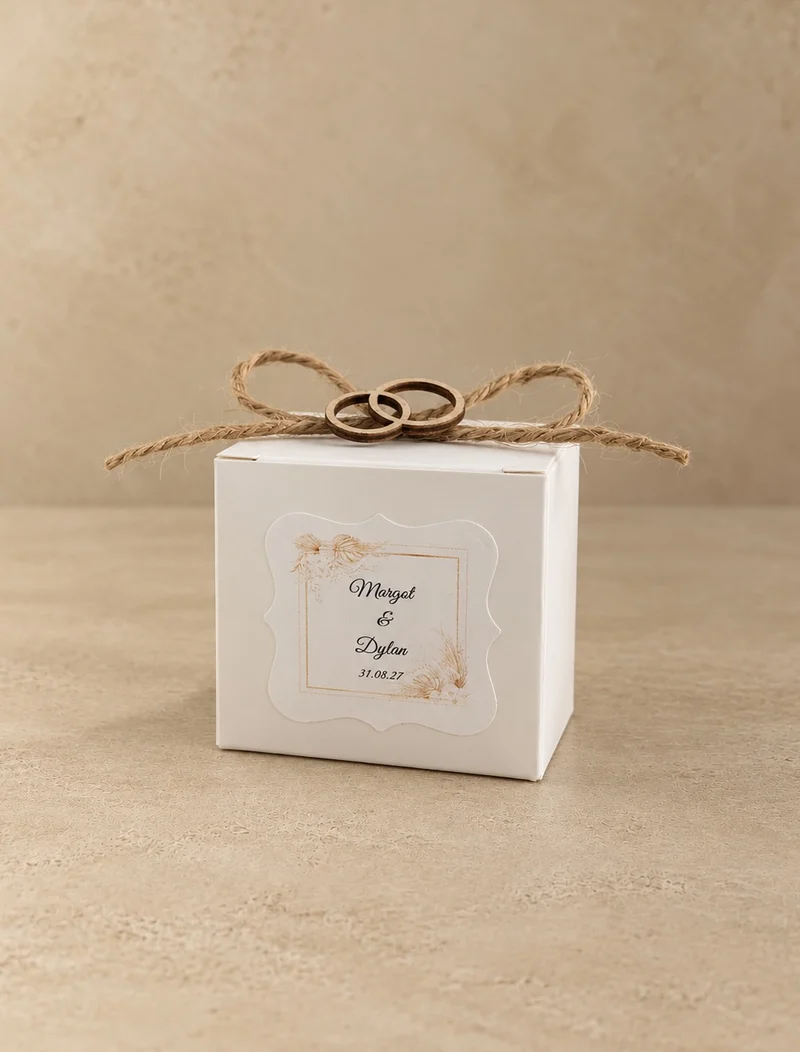
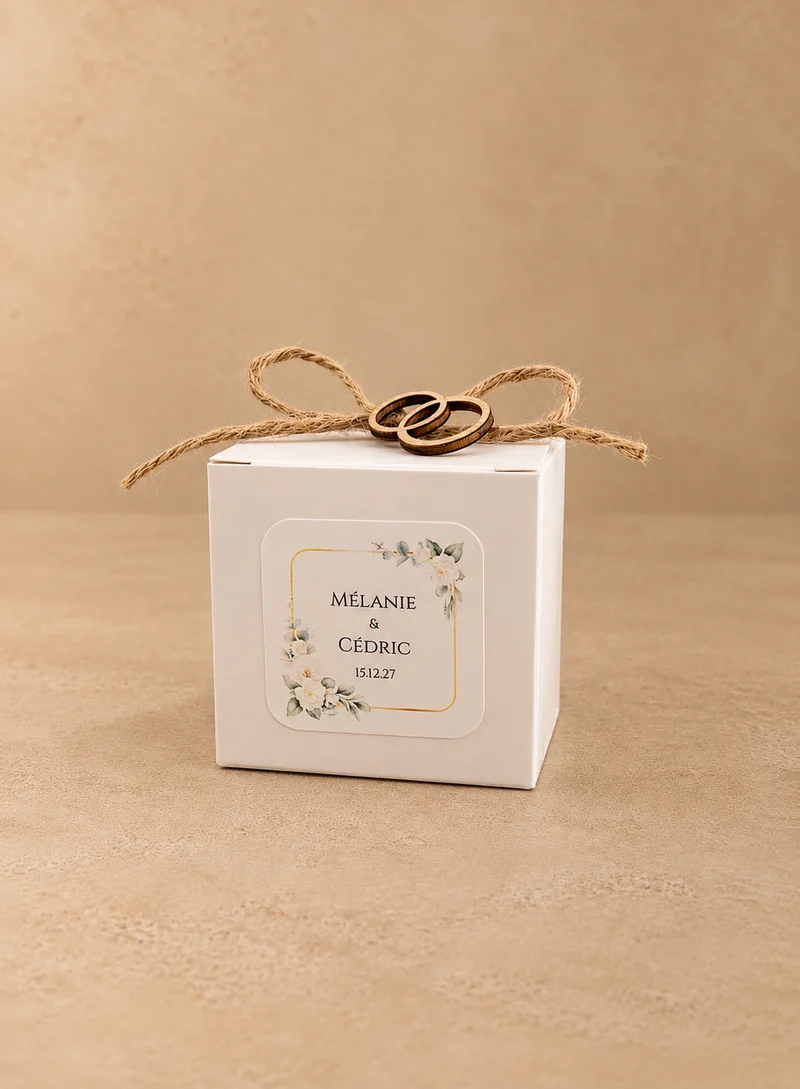
Mariage Alliance : nouvelle photo de la boîte (étiquette carrée roses blanches et eucalyptus) et descriptions mises à jour (FR + EN)
Claude-Session: https://claude.ai/code/session_01L3Qqnn5YvPKKhdFuicr79g

diff --git a/produit-mariage-alliance.html b/produit-mariage-alliance.html
@@ -5,19 +5,19 @@
   <meta http-equiv="Content-Security-Policy" content="default-src 'self'; script-src 'self' https://www.googletagmanager.com https://connect.facebook.net; style-src 'self' 'unsafe-inline'; img-src 'self' data: https://www.google.com https://www.google.fr https://googleads.g.doubleclick.net https://www.googleadservices.com https://www.facebook.com; font-src 'self'; connect-src 'self' https://formspree.io https://www.google.com https://www.google.fr https://googleads.g.doubleclick.net https://www.googleadservices.com https://*.google-analytics.com https://www.facebook.com https://connect.facebook.net; frame-src https://td.doubleclick.net https://www.googletagmanager.com; form-action 'self' https://formspree.io; base-uri 'self'; object-src 'none';">
   <meta name="viewport" content="width=device-width, initial-scale=1.0, viewport-fit=cover">
   <title>Dragées Mariage Alliance · Dragée Paris</title>
-  <meta name="description" content="Dragées Mariage Alliance : boîte blanche ornée d'une étiquette festonnée aux herbes de pampa, nouée d'un cordon de jute et de deux anneaux en bois, personnalisée aux prénoms des mariés.">
+  <meta name="description" content="Dragées Mariage Alliance : boîte blanche ornée d'une étiquette carrée aux roses blanches et eucalyptus, nouée d'un cordon de jute et de deux anneaux en bois, personnalisée aux prénoms des mariés.">
   <link rel="stylesheet" href="style.css?v=20261102b">
   <meta property="og:type" content="product">
   <meta property="og:site_name" content="Dragée Paris">
   <meta property="og:title" content="Dragées Mariage Alliance · Dragée Paris">
-  <meta property="og:description" content="Dragées Mariage Alliance : boîte blanche ornée d'une étiquette festonnée aux herbes de pampa, nouée d'un cordon de jute et de deux anneaux en bois, personnalisée aux prénoms des mariés.">
+  <meta property="og:description" content="Dragées Mariage Alliance : boîte blanche ornée d'une étiquette carrée aux roses blanches et eucalyptus, nouée d'un cordon de jute et de deux anneaux en bois, personnalisée aux prénoms des mariés.">
   <meta property="og:url" content="https://drageeparis.fr/produit-mariage-alliance.html">
-  <meta property="og:image" content="https://drageeparis.fr/images/mariage/mariage-boite-alliance.png?v=20261029c">
+  <meta property="og:image" content="https://drageeparis.fr/images/mariage/mariage-boite-alliance.png?v=20261103b">
   <meta property="og:locale" content="fr_FR">
   <meta name="twitter:card" content="summary_large_image">
   <meta name="twitter:title" content="Dragées Mariage Alliance · Dragée Paris">
-  <meta name="twitter:description" content="Dragées Mariage Alliance : boîte blanche ornée d'une étiquette festonnée aux herbes de pampa, nouée d'un cordon de jute et de deux anneaux en bois, personnalisée aux prénoms des mariés.">
-  <meta name="twitter:image" content="https://drageeparis.fr/images/mariage/mariage-boite-alliance.png?v=20261029c">
+  <meta name="twitter:description" content="Dragées Mariage Alliance : boîte blanche ornée d'une étiquette carrée aux roses blanches et eucalyptus, nouée d'un cordon de jute et de deux anneaux en bois, personnalisée aux prénoms des mariés.">
+  <meta name="twitter:image" content="https://drageeparis.fr/images/mariage/mariage-boite-alliance.png?v=20261103b">
   <link rel="canonical" href="https://drageeparis.fr/produit-mariage-alliance.html">
   <link rel="alternate" hreflang="fr" href="https://drageeparis.fr/produit-mariage-alliance.html">
   <link rel="alternate" hreflang="en" href="https://drageeparis.fr/en/produit-mariage-alliance.html">
@@ -163,15 +163,15 @@
     <section class="pdp">
       <div class="pdp__gallery">
         <picture>
-          <source type="image/webp" srcset="./images/mariage/mariage-boite-alliance-800w.webp?v=20261029c 800w, ./images/mariage/mariage-boite-alliance.webp?v=20261029c 1008w" sizes="(max-width: 1024px) 100vw, 50vw">
-          <img src="./images/mariage/mariage-boite-alliance.png?v=20261029c" alt="Dragées Mariage Alliance, création assemblée à la main">
+          <source type="image/webp" srcset="./images/mariage/mariage-boite-alliance-800w.webp?v=20261103b 800w, ./images/mariage/mariage-boite-alliance.webp?v=20261103b 1075w" sizes="(max-width: 1024px) 100vw, 50vw">
+          <img src="./images/mariage/mariage-boite-alliance.png?v=20261103b" alt="Dragées Mariage Alliance, création assemblée à la main">
         </picture>
       </div>
       <div class="pdp__info">
         <a href="dragees-mariage.html" class="pdp__back">← Les créations</a>
         <h1 class="pdp__title">Dragées Mariage Alliance</h1>
         <p class="pdp__weight">Boîte personnalisée · prix à la pièce</p>
-        <p class="pdp__tagline">Une boîte blanche ornée d'une étiquette festonnée aux herbes de pampa et filets dorés, nouée d'un cordon de jute et de deux anneaux entrelacés en bois. Personnalisée aux prénoms des mariés et à la date du mariage, assemblée à la main dans notre atelier d'Athis-Mons.</p>
+        <p class="pdp__tagline">Une boîte blanche ornée d'une étiquette carrée aux roses blanches et feuillages d'eucalyptus, encadrée d'un filet doré, nouée d'un cordon de jute et de deux anneaux entrelacés en bois. Personnalisée aux prénoms des mariés et à la date du mariage, assemblée à la main dans notre atelier d'Athis-Mons.</p>
         <div class="pdp__qty-block">
           <p class="pdp__price" style="margin-bottom:6px;">4 € <span class="pdp__price-unit">avec dragées</span></p>
           <p class="pdp__price" style="margin-bottom:0;">3,50 € <span class="pdp__price-unit">sans dragées</span></p>
@@ -276,8 +276,8 @@
   "@context": "https://schema.org",
   "@type": "Product",
   "name": "Dragées Mariage Alliance",
-  "description": "Dragées Mariage Alliance : boîte blanche ornée d'une étiquette festonnée aux herbes de pampa, nouée d'un cordon de jute et de deux anneaux en bois, personnalisée aux prénoms des mariés.",
-  "image": "https://drageeparis.fr/images/mariage/mariage-boite-alliance.png?v=20261029c",
+  "description": "Dragées Mariage Alliance : boîte blanche ornée d'une étiquette carrée aux roses blanches et eucalyptus, nouée d'un cordon de jute et de deux anneaux en bois, personnalisée aux prénoms des mariés.",
+  "image": "https://drageeparis.fr/images/mariage/mariage-boite-alliance.png?v=20261103b",
   "brand": {
     "@type": "Brand",
     "name": "Dragée Paris"

diff --git a/en/produit-mariage-alliance.html b/en/produit-mariage-alliance.html
@@ -5,19 +5,19 @@
   <meta http-equiv="Content-Security-Policy" content="default-src 'self'; script-src 'self' https://www.googletagmanager.com https://connect.facebook.net; style-src 'self' 'unsafe-inline'; img-src 'self' data: https://www.google.com https://www.google.fr https://googleads.g.doubleclick.net https://www.googleadservices.com https://www.facebook.com; font-src 'self'; connect-src 'self' https://formspree.io https://www.google.com https://www.google.fr https://googleads.g.doubleclick.net https://www.googleadservices.com https://*.google-analytics.com https://www.facebook.com https://connect.facebook.net; frame-src https://td.doubleclick.net https://www.googletagmanager.com; form-action 'self' https://formspree.io; base-uri 'self'; object-src 'none';">
   <meta name="viewport" content="width=device-width, initial-scale=1.0, viewport-fit=cover">
   <title>Alliance Wedding Dragées · Dragée Paris</title>
-  <meta name="description" content="Alliance Wedding Dragées: a white box with a scalloped pampas-grass label, tied with jute cord and two wooden rings, personalised with the couple's names.">
+  <meta name="description" content="Alliance Wedding Dragées: a white box with a square label of white roses and eucalyptus, tied with jute cord and two wooden rings, personalised with the couple's names.">
   <link rel="stylesheet" href="../style.css?v=20261102b">
   <meta property="og:type" content="product">
   <meta property="og:site_name" content="Dragée Paris">
   <meta property="og:title" content="Alliance Wedding Dragées · Dragée Paris">
-  <meta property="og:description" content="Alliance Wedding Dragées: a white box with a scalloped pampas-grass label, tied with jute cord and two wooden rings, personalised with the couple's names.">
+  <meta property="og:description" content="Alliance Wedding Dragées: a white box with a square label of white roses and eucalyptus, tied with jute cord and two wooden rings, personalised with the couple's names.">
   <meta property="og:url" content="https://drageeparis.fr/en/produit-mariage-alliance.html">
-  <meta property="og:image" content="https://drageeparis.fr/images/mariage/mariage-boite-alliance.png?v=20261029c">
+  <meta property="og:image" content="https://drageeparis.fr/images/mariage/mariage-boite-alliance.png?v=20261103b">
   <meta property="og:locale" content="en_GB">
   <meta name="twitter:card" content="summary_large_image">
   <meta name="twitter:title" content="Alliance Wedding Dragées · Dragée Paris">
-  <meta name="twitter:description" content="Alliance Wedding Dragées: a white box with a scalloped pampas-grass label, tied with jute cord and two wooden rings, personalised with the couple's names.">
-  <meta name="twitter:image" content="https://drageeparis.fr/images/mariage/mariage-boite-alliance.png?v=20261029c">
+  <meta name="twitter:description" content="Alliance Wedding Dragées: a white box with a square label of white roses and eucalyptus, tied with jute cord and two wooden rings, personalised with the couple's names.">
+  <meta name="twitter:image" content="https://drageeparis.fr/images/mariage/mariage-boite-alliance.png?v=20261103b">
   <link rel="canonical" href="https://drageeparis.fr/en/produit-mariage-alliance.html">
   <link rel="alternate" hreflang="fr" href="https://drageeparis.fr/produit-mariage-alliance.html">
   <link rel="alternate" hreflang="en" href="https://drageeparis.fr/en/produit-mariage-alliance.html">
@@ -163,15 +163,15 @@
     <section class="pdp">
       <div class="pdp__gallery">
         <picture>
-          <source type="image/webp" srcset="../images/mariage/mariage-boite-alliance-800w.webp?v=20261029c 800w, ../images/mariage/mariage-boite-alliance.webp?v=20261029c 1008w" sizes="(max-width: 1024px) 100vw, 50vw">
-          <img src="../images/mariage/mariage-boite-alliance.png?v=20261029c" alt="Alliance Wedding Dragées, hand-assembled creation">
+          <source type="image/webp" srcset="../images/mariage/mariage-boite-alliance-800w.webp?v=20261103b 800w, ../images/mariage/mariage-boite-alliance.webp?v=20261103b 1075w" sizes="(max-width: 1024px) 100vw, 50vw">
+          <img src="../images/mariage/mariage-boite-alliance.png?v=20261103b" alt="Alliance Wedding Dragées, hand-assembled creation">
         </picture>
       </div>
       <div class="pdp__info">
         <a href="dragees-mariage.html" class="pdp__back">← Our creations</a>
         <h1 class="pdp__title">Alliance Wedding Dragées</h1>
         <p class="pdp__weight">Personalised box · priced per piece</p>
-        <p class="pdp__tagline">A white box with a scalloped label of pampas grass and gold lines, tied with jute cord and two interlaced wooden rings. Personalised with the couple's names and the wedding date, assembled by hand in our Athis-Mons workshop.</p>
+        <p class="pdp__tagline">A white box with a square label of white roses and eucalyptus leaves framed by a gold line, tied with jute cord and two interlaced wooden rings. Personalised with the couple's names and the wedding date, assembled by hand in our Athis-Mons workshop.</p>
         <div class="pdp__qty-block">
           <p class="pdp__price" style="margin-bottom:6px;">€4 <span class="pdp__price-unit">with dragées</span></p>
           <p class="pdp__price" style="margin-bottom:0;">€3.50 <span class="pdp__price-unit">without dragées</span></p>
@@ -276,8 +276,8 @@
   "@context": "https://schema.org",
   "@type": "Product",
   "name": "Alliance Wedding Dragées",
-  "description": "Alliance Wedding Dragées: a white box with a scalloped pampas-grass label, tied with jute cord and two wooden rings, personalised with the couple's names.",
-  "image": "https://drageeparis.fr/images/mariage/mariage-boite-alliance.png?v=20261029c",
+  "description": "Alliance Wedding Dragées: a white box with a square label of white roses and eucalyptus, tied with jute cord and two wooden rings, personalised with the couple's names.",
+  "image": "https://drageeparis.fr/images/mariage/mariage-boite-alliance.png?v=20261103b",
   "brand": {
     "@type": "Brand",
     "name": "Dragée Paris"

diff --git a/creations.html b/creations.html
@@ -447,8 +447,8 @@
             <div class="product-card__media">
               <a href="produit-mariage-alliance.html">
               <picture>
-          <source type="image/webp" srcset="./images/mariage/mariage-boite-alliance-800w.webp?v=20261029c 800w, ./images/mariage/mariage-boite-alliance.webp?v=20261029c 1008w" sizes="(max-width: 768px) 100vw, (max-width: 1200px) 50vw, 400px">
-          <img src="./images/mariage/mariage-boite-alliance.png?v=20261029c" alt="Dragées de mariage Alliance : boîte blanche, étiquette festonnée aux prénoms des mariés, cordon de jute et deux anneaux en bois" loading="lazy" width="400" height="400">
+          <source type="image/webp" srcset="./images/mariage/mariage-boite-alliance-800w.webp?v=20261103b 800w, ./images/mariage/mariage-boite-alliance.webp?v=20261103b 1075w" sizes="(max-width: 768px) 100vw, (max-width: 1200px) 50vw, 400px">
+          <img src="./images/mariage/mariage-boite-alliance.png?v=20261103b" alt="Dragées de mariage Alliance : boîte blanche, étiquette carrée fleurie aux prénoms des mariés, cordon de jute et deux anneaux en bois" loading="lazy" width="400" height="400">
         </picture>
               </a>
             </div>

diff --git a/dragees-mariage.html b/dragees-mariage.html
@@ -373,8 +373,8 @@
             <div class="product-card__media">
               <a href="produit-mariage-alliance.html">
               <picture>
-          <source type="image/webp" srcset="./images/mariage/mariage-boite-alliance-800w.webp?v=20261029c 800w, ./images/mariage/mariage-boite-alliance.webp?v=20261029c 1008w" sizes="(max-width: 768px) 100vw, (max-width: 1200px) 50vw, 400px">
-          <img src="./images/mariage/mariage-boite-alliance.png?v=20261029c" alt="Dragées de mariage Alliance : boîte blanche, étiquette festonnée aux prénoms des mariés, cordon de jute et deux anneaux en bois" loading="lazy" width="400" height="400">
+          <source type="image/webp" srcset="./images/mariage/mariage-boite-alliance-800w.webp?v=20261103b 800w, ./images/mariage/mariage-boite-alliance.webp?v=20261103b 1075w" sizes="(max-width: 768px) 100vw, (max-width: 1200px) 50vw, 400px">
+          <img src="./images/mariage/mariage-boite-alliance.png?v=20261103b" alt="Dragées de mariage Alliance : boîte blanche, étiquette carrée fleurie aux prénoms des mariés, cordon de jute et deux anneaux en bois" loading="lazy" width="400" height="400">
         </picture>
               </a>
             </div>

diff --git a/en/creations.html b/en/creations.html
@@ -447,8 +447,8 @@
             <div class="product-card__media">
               <a href="produit-mariage-alliance.html">
               <picture>
-          <source type="image/webp" srcset="../images/mariage/mariage-boite-alliance-800w.webp?v=20261029c 800w, ../images/mariage/mariage-boite-alliance.webp?v=20261029c 1008w" sizes="(max-width: 768px) 100vw, (max-width: 1200px) 50vw, 400px">
-          <img src="../images/mariage/mariage-boite-alliance.png?v=20261029c" alt="Alliance Wedding Dragées: a white box with a scalloped label bearing the couple's names, jute cord and two wooden rings" loading="lazy" width="400" height="400">
+          <source type="image/webp" srcset="../images/mariage/mariage-boite-alliance-800w.webp?v=20261103b 800w, ../images/mariage/mariage-boite-alliance.webp?v=20261103b 1075w" sizes="(max-width: 768px) 100vw, (max-width: 1200px) 50vw, 400px">
+          <img src="../images/mariage/mariage-boite-alliance.png?v=20261103b" alt="Alliance Wedding Dragées: a white box with a square floral label bearing the couple's names, jute cord and two wooden rings" loading="lazy" width="400" height="400">
         </picture>
               </a>
             </div>

diff --git a/en/dragees-mariage.html b/en/dragees-mariage.html
@@ -373,8 +373,8 @@
             <div class="product-card__media">
               <a href="produit-mariage-alliance.html">
               <picture>
-          <source type="image/webp" srcset="../images/mariage/mariage-boite-alliance-800w.webp?v=20261029c 800w, ../images/mariage/mariage-boite-alliance.webp?v=20261029c 1008w" sizes="(max-width: 768px) 100vw, (max-width: 1200px) 50vw, 400px">
-          <img src="../images/mariage/mariage-boite-alliance.png?v=20261029c" alt="Alliance Wedding Dragées: a white box with a scalloped label bearing the couple's names, jute cord and two wooden rings" loading="lazy" width="400" height="400">
+          <source type="image/webp" srcset="../images/mariage/mariage-boite-alliance-800w.webp?v=20261103b 800w, ../images/mariage/mariage-boite-alliance.webp?v=20261103b 1075w" sizes="(max-width: 768px) 100vw, (max-width: 1200px) 50vw, 400px">
+          <img src="../images/mariage/mariage-boite-alliance.png?v=20261103b" alt="Alliance Wedding Dragées: a white box with a square floral label bearing the couple's names, jute cord and two wooden rings" loading="lazy" width="400" height="400">
         </picture>
               </a>
             </div>

diff --git a/en/produit-mariage-bouquet-printemps.html b/en/produit-mariage-bouquet-printemps.html
@@ -244,8 +244,8 @@
         <a href="produit-mariage-alliance.html" class="prod-card">
           <div class="prod-card__image">
             <picture>
-          <source type="image/webp" srcset="../images/mariage/mariage-boite-alliance-800w.webp?v=20261029c 800w, ../images/mariage/mariage-boite-alliance.webp?v=20261029c 1008w" sizes="(max-width: 768px) 100vw, (max-width: 1200px) 50vw, 400px">
-          <img src="../images/mariage/mariage-boite-alliance.png?v=20261029c" alt="Alliance Wedding Dragées" loading="lazy">
+          <source type="image/webp" srcset="../images/mariage/mariage-boite-alliance-800w.webp?v=20261103b 800w, ../images/mariage/mariage-boite-alliance.webp?v=20261103b 1075w" sizes="(max-width: 768px) 100vw, (max-width: 1200px) 50vw, 400px">
+          <img src="../images/mariage/mariage-boite-alliance.png?v=20261103b" alt="Alliance Wedding Dragées" loading="lazy">
         </picture>
           </div>
           <div class="prod-card__info">

diff --git a/en/produit-mariage-nuage.html b/en/produit-mariage-nuage.html
@@ -225,8 +225,8 @@
         <a href="produit-mariage-alliance.html" class="prod-card">
           <div class="prod-card__image">
             <picture>
-          <source type="image/webp" srcset="../images/mariage/mariage-boite-alliance-800w.webp?v=20261029c 800w, ../images/mariage/mariage-boite-alliance.webp?v=20261029c 1008w" sizes="(max-width: 768px) 100vw, (max-width: 1200px) 50vw, 400px">
-          <img src="../images/mariage/mariage-boite-alliance.png?v=20261029c" alt="Alliance Wedding Dragées" loading="lazy">
+          <source type="image/webp" srcset="../images/mariage/mariage-boite-alliance-800w.webp?v=20261103b 800w, ../images/mariage/mariage-boite-alliance.webp?v=20261103b 1075w" sizes="(max-width: 768px) 100vw, (max-width: 1200px) 50vw, 400px">
+          <img src="../images/mariage/mariage-boite-alliance.png?v=20261103b" alt="Alliance Wedding Dragées" loading="lazy">
         </picture>
           </div>
           <div class="prod-card__info">

diff --git a/en/produit-mariage-riviera.html b/en/produit-mariage-riviera.html
@@ -234,8 +234,8 @@
         <a href="produit-mariage-alliance.html" class="prod-card">
           <div class="prod-card__image">
             <picture>
-          <source type="image/webp" srcset="../images/mariage/mariage-boite-alliance-800w.webp?v=20261029c 800w, ../images/mariage/mariage-boite-alliance.webp?v=20261029c 1008w" sizes="(max-width: 768px) 100vw, (max-width: 1200px) 50vw, 400px">
-          <img src="../images/mariage/mariage-boite-alliance.png?v=20261029c" alt="Alliance Wedding Dragées" loading="lazy">
+          <source type="image/webp" srcset="../images/mariage/mariage-boite-alliance-800w.webp?v=20261103b 800w, ../images/mariage/mariage-boite-alliance.webp?v=20261103b 1075w" sizes="(max-width: 768px) 100vw, (max-width: 1200px) 50vw, 400px">
+          <img src="../images/mariage/mariage-boite-alliance.png?v=20261103b" alt="Alliance Wedding Dragées" loading="lazy">
         </picture>
           </div>
           <div class="prod-card__info">

diff --git a/en/produit-mariage-terracotta.html b/en/produit-mariage-terracotta.html
@@ -228,8 +228,8 @@
         <a href="produit-mariage-alliance.html" class="prod-card">
           <div class="prod-card__image">
             <picture>
-          <source type="image/webp" srcset="../images/mariage/mariage-boite-alliance-800w.webp?v=20261029c 800w, ../images/mariage/mariage-boite-alliance.webp?v=20261029c 1008w" sizes="(max-width: 768px) 100vw, (max-width: 1200px) 50vw, 400px">
-          <img src="../images/mariage/mariage-boite-alliance.png?v=20261029c" alt="Alliance Wedding Dragées" loading="lazy">
+          <source type="image/webp" srcset="../images/mariage/mariage-boite-alliance-800w.webp?v=20261103b 800w, ../images/mariage/mariage-boite-alliance.webp?v=20261103b 1075w" sizes="(max-width: 768px) 100vw, (max-width: 1200px) 50vw, 400px">
+          <img src="../images/mariage/mariage-boite-alliance.png?v=20261103b" alt="Alliance Wedding Dragées" loading="lazy">
         </picture>
           </div>
           <div class="prod-card__info">

diff --git a/produit-mariage-bouquet-printemps.html b/produit-mariage-bouquet-printemps.html
@@ -244,8 +244,8 @@
         <a href="produit-mariage-alliance.html" class="prod-card">
           <div class="prod-card__image">
             <picture>
-          <source type="image/webp" srcset="./images/mariage/mariage-boite-alliance-800w.webp?v=20261029c 800w, ./images/mariage/mariage-boite-alliance.webp?v=20261029c 1008w" sizes="(max-width: 768px) 100vw, (max-width: 1200px) 50vw, 400px">
-          <img src="./images/mariage/mariage-boite-alliance.png?v=20261029c" alt="Dragées Mariage Alliance" loading="lazy">
+          <source type="image/webp" srcset="./images/mariage/mariage-boite-alliance-800w.webp?v=20261103b 800w, ./images/mariage/mariage-boite-alliance.webp?v=20261103b 1075w" sizes="(max-width: 768px) 100vw, (max-width: 1200px) 50vw, 400px">
+          <img src="./images/mariage/mariage-boite-alliance.png?v=20261103b" alt="Dragées Mariage Alliance" loading="lazy">
         </picture>
           </div>
           <div class="prod-card__info">

diff --git a/produit-mariage-nuage.html b/produit-mariage-nuage.html
@@ -225,8 +225,8 @@
         <a href="produit-mariage-alliance.html" class="prod-card">
           <div class="prod-card__image">
             <picture>
-          <source type="image/webp" srcset="./images/mariage/mariage-boite-alliance-800w.webp?v=20261029c 800w, ./images/mariage/mariage-boite-alliance.webp?v=20261029c 1008w" sizes="(max-width: 768px) 100vw, (max-width: 1200px) 50vw, 400px">
-          <img src="./images/mariage/mariage-boite-alliance.png?v=20261029c" alt="Dragées Mariage Alliance" loading="lazy">
+          <source type="image/webp" srcset="./images/mariage/mariage-boite-alliance-800w.webp?v=20261103b 800w, ./images/mariage/mariage-boite-alliance.webp?v=20261103b 1075w" sizes="(max-width: 768px) 100vw, (max-width: 1200px) 50vw, 400px">
+          <img src="./images/mariage/mariage-boite-alliance.png?v=20261103b" alt="Dragées Mariage Alliance" loading="lazy">
         </picture>
           </div>
           <div class="prod-card__info">
